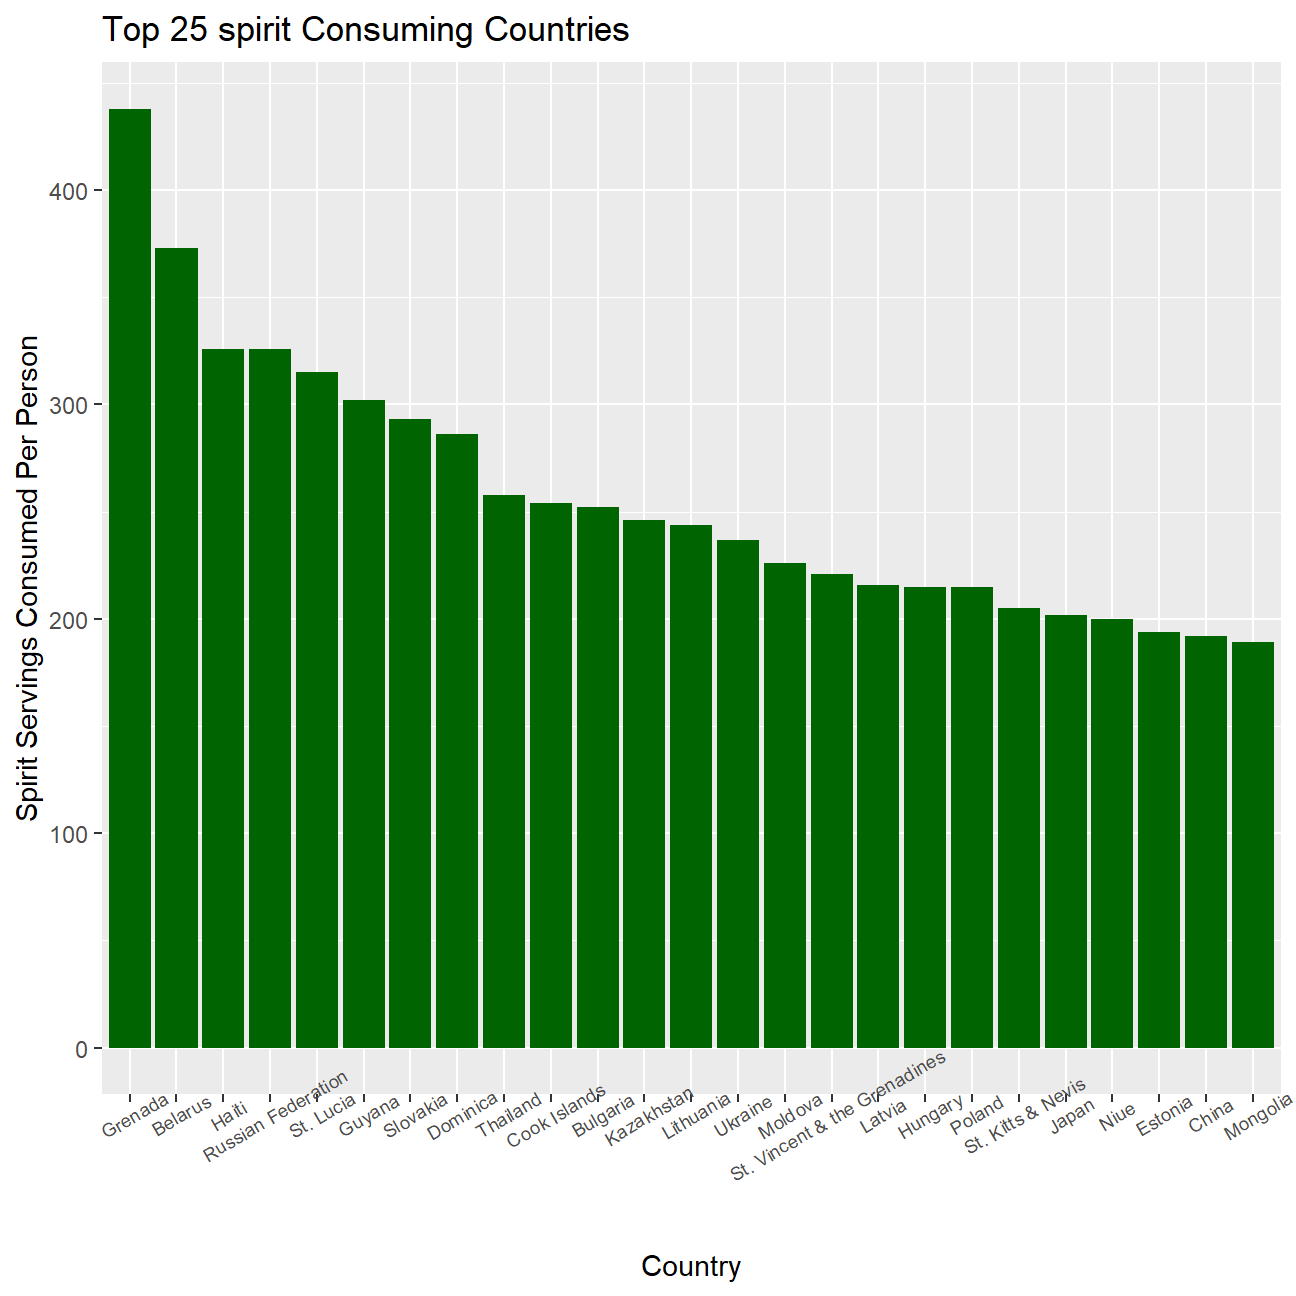
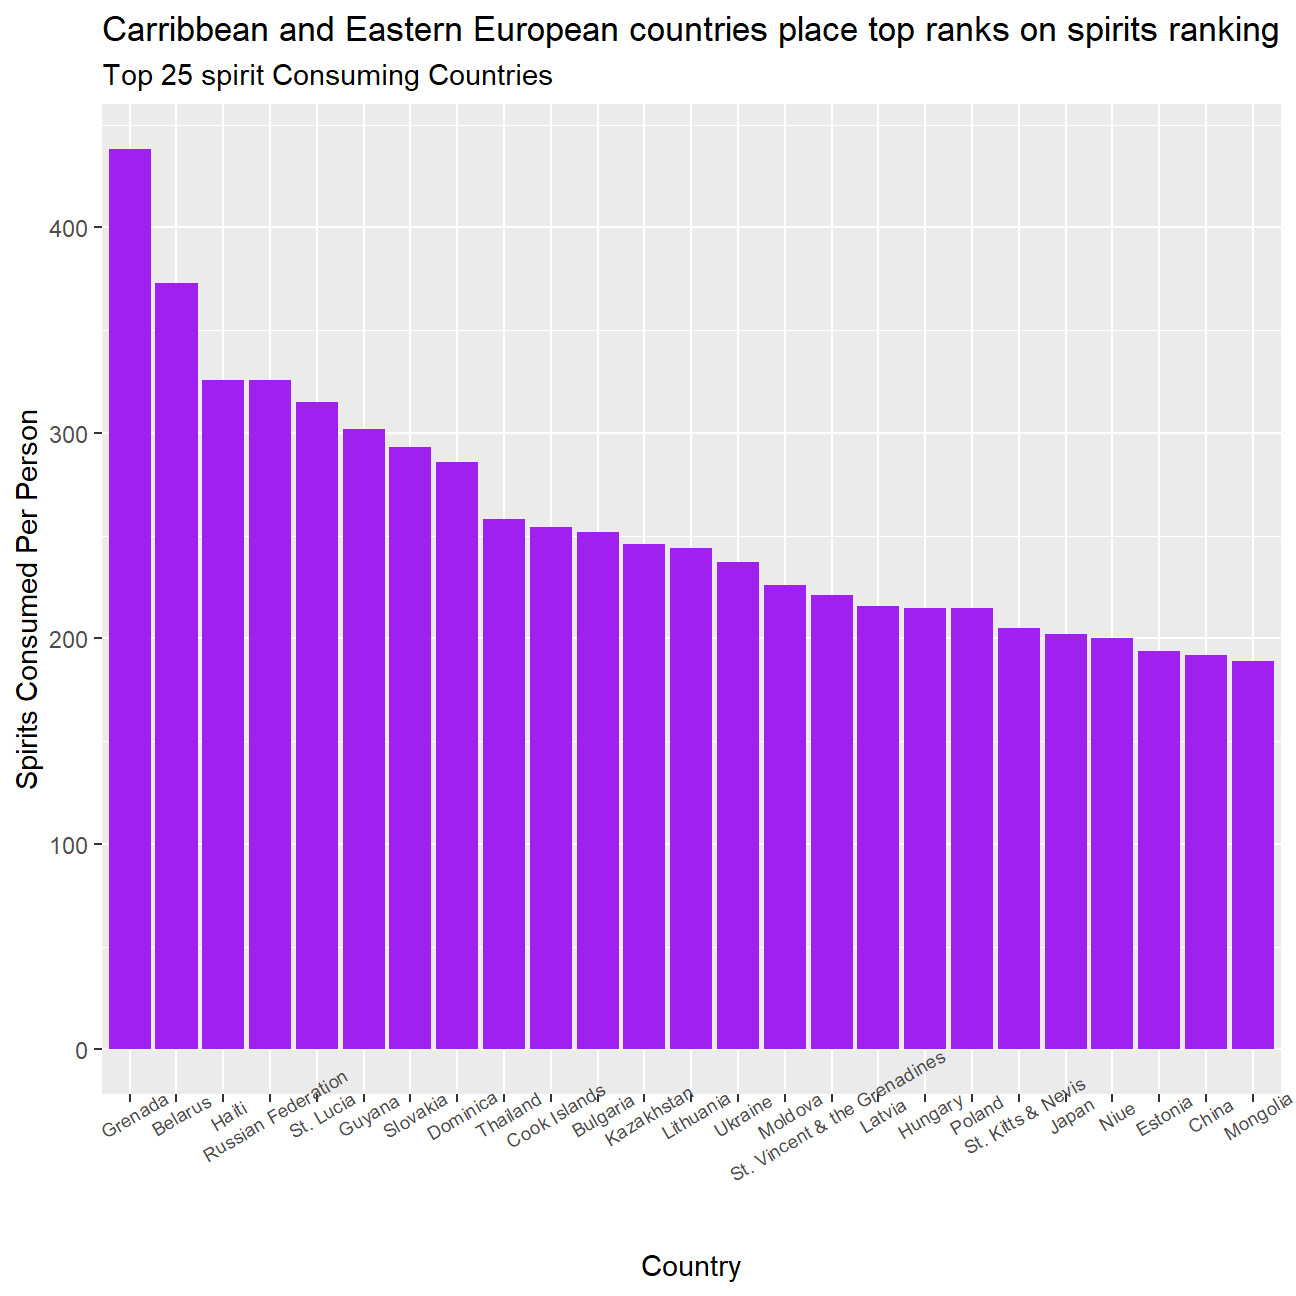
19-oct-20 3

diff --git a/content/blogs/blog6.html b/content/blogs/blog6.html
@@ -396,7 +396,13 @@ top25_wine &lt;- wine %&gt;%
 
 #Use ggplot() to plot only the top 25 entries summarised in top25_wine, adjusting the x-axis labels for readibility, as well as colour, axis labels and title
 
-ggplot(top25_wine, aes(x = reorder(country, desc(wine_servings)), y= wine_servings),) + geom_col(fill=&quot;red&quot;) + labs(x=&quot;Country&quot;,y = &quot;Wine Servings Consumed Per Person&quot;, title = &quot;Top 25 Wine Consuming Countries&quot;) + theme(axis.text.x = element_text(angle=30, size=7))</code></pre>
+ggplot(top25_wine, aes(x = reorder(country, desc(wine_servings)), y= wine_servings),) +
+  geom_col(fill=&quot;red&quot;) +
+  labs(x=&quot;Country&quot;,
+       y = &quot;Wine Servings Consumed Per Person&quot;, 
+       title = &quot;European wine production regions top the consumption rankings&quot;,
+       subtitle = &quot;Top 25 Wine Consuming Countries&quot;) + 
+  theme(axis.text.x = element_text(angle=30, size=7))</code></pre>
 <p><img src="/blogs/blog6_files/figure-html/wine_plot-1.png" width="648" style="display: block; margin: auto;" /></p>
 <pre class="r"><code>#Use the pipe to select only the beer_servings variable, and arrange countries in descending order of serving
 
@@ -413,8 +419,11 @@ top25_spirit &lt;- spirit %&gt;%
 #Use ggplot() to plot only the top 25 entries summarised in top25_spirit, adjusting the x-axis labels for readibility, as well as colour, axis labels and title
 
 ggplot(top25_spirit, aes(x = reorder(country, desc(spirit_servings)), y= spirit_servings),) + 
-  geom_col(fill=&quot;dark green&quot;) + 
-  labs(x=&quot;Country&quot;,y = &quot;Spirit Servings Consumed Per Person&quot;, title = &quot;Top 25 spirit Consuming Countries&quot;) +
+  geom_col(fill=&quot;purple&quot;) + 
+  labs(x=&quot;Country&quot;,
+   y = &quot;Spirits Consumed Per Person&quot;,
+   title = &quot;Carribbean and Eastern European countries place top ranks on spirits ranking&quot;,
+   subtitle = &quot;Top 25 spirit Consuming Countries&quot;) +
   theme(axis.text.x = element_text(angle=30, size=7))</code></pre>
 <p><img src="/blogs/blog6_files/figure-html/spirit_plot-1.png" width="648" style="display: block; margin: auto;" /></p>
 </div>

diff --git a/public/blogs/blog6/index.html b/public/blogs/blog6/index.html
@@ -472,7 +472,13 @@ top25_wine &lt;- wine %&gt;%
 
 #Use ggplot() to plot only the top 25 entries summarised in top25_wine, adjusting the x-axis labels for readibility, as well as colour, axis labels and title
 
-ggplot(top25_wine, aes(x = reorder(country, desc(wine_servings)), y= wine_servings),) + geom_col(fill=&quot;red&quot;) + labs(x=&quot;Country&quot;,y = &quot;Wine Servings Consumed Per Person&quot;, title = &quot;Top 25 Wine Consuming Countries&quot;) + theme(axis.text.x = element_text(angle=30, size=7))</code></pre>
+ggplot(top25_wine, aes(x = reorder(country, desc(wine_servings)), y= wine_servings),) +
+  geom_col(fill=&quot;red&quot;) +
+  labs(x=&quot;Country&quot;,
+       y = &quot;Wine Servings Consumed Per Person&quot;, 
+       title = &quot;European wine production regions top the consumption rankings&quot;,
+       subtitle = &quot;Top 25 Wine Consuming Countries&quot;) + 
+  theme(axis.text.x = element_text(angle=30, size=7))</code></pre>
 <p><img src="/blogs/blog6_files/figure-html/wine_plot-1.png" width="648" style="display: block; margin: auto;" /></p>
 <pre class="r"><code>#Use the pipe to select only the beer_servings variable, and arrange countries in descending order of serving
 
@@ -489,8 +495,11 @@ top25_spirit &lt;- spirit %&gt;%
 #Use ggplot() to plot only the top 25 entries summarised in top25_spirit, adjusting the x-axis labels for readibility, as well as colour, axis labels and title
 
 ggplot(top25_spirit, aes(x = reorder(country, desc(spirit_servings)), y= spirit_servings),) + 
-  geom_col(fill=&quot;dark green&quot;) + 
-  labs(x=&quot;Country&quot;,y = &quot;Spirit Servings Consumed Per Person&quot;, title = &quot;Top 25 spirit Consuming Countries&quot;) +
+  geom_col(fill=&quot;purple&quot;) + 
+  labs(x=&quot;Country&quot;,
+   y = &quot;Spirits Consumed Per Person&quot;,
+   title = &quot;Carribbean and Eastern European countries place top ranks on spirits ranking&quot;,
+   subtitle = &quot;Top 25 spirit Consuming Countries&quot;) +
   theme(axis.text.x = element_text(angle=30, size=7))</code></pre>
 <p><img src="/blogs/blog6_files/figure-html/spirit_plot-1.png" width="648" style="display: block; margin: auto;" /></p>
 </div>
